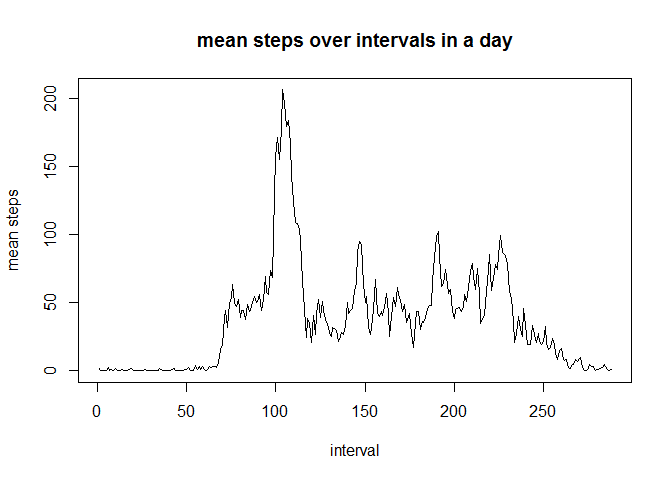
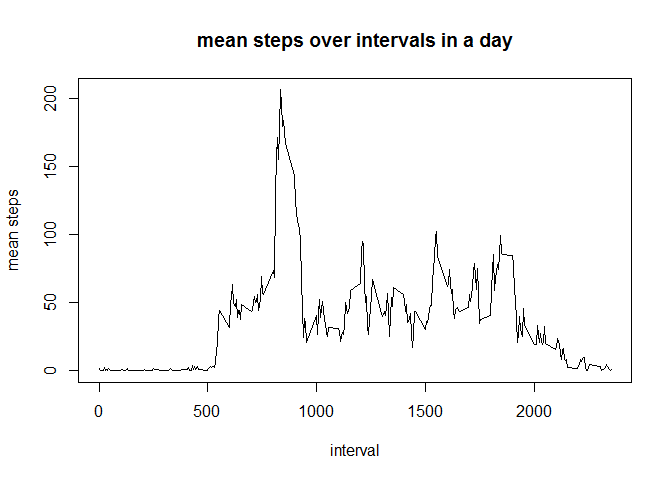
correction made, final

diff --git a/PA1_template.html b/PA1_template.html
@@ -85,13 +85,14 @@ hist(steps.day$steps, breaks = 10, main = &quot;Histogram of steps per day&quot;
 <li>Make a time series plot (i.e. <code>type = &quot;l&quot;</code>) of the 5-minute interval (x-axis) and the average number of steps taken, averaged across all days (y-axis)</li>
 </ol>
 <pre class="r"><code>steps.interval&lt;-aggregate(steps~interval,df,mean,na.rm=TRUE)
-plot(steps.interval$steps,type = &quot;l&quot;,main = &quot;mean steps over intervals in a day&quot;, xlab = &quot;interval&quot;, ylab = &quot;mean steps&quot;)</code></pre>
[1 lines of base64/hex data omitted]
+plot(steps~interval,steps.interval,type = &quot;l&quot;,main = &quot;mean steps over intervals in a day&quot;, xlab = &quot;interval&quot;, ylab = &quot;mean steps&quot;)</code></pre>
[1 lines of base64/hex data omitted]
 <ol start="2" style="list-style-type: decimal">
 <li>Which 5-minute interval, on average across all the days in the dataset, contains the maximum number of steps?</li>
 </ol>
-<pre class="r"><code>which.max(steps.interval$steps)</code></pre>
-<pre><code>## [1] 104</code></pre>
+<p>The interval containing max steps</p>
+<pre class="r"><code>steps.interval$interval[which.max(steps.interval$steps)]</code></pre>
+<pre><code>## [1] 835</code></pre>
 </div>
 <div id="imputing-missing-values" class="section level2">
 <h2>Imputing missing values</h2>

diff --git a/PA1_template.md b/PA1_template.md
@@ -45,19 +45,21 @@ median(steps.day$steps)
 
 ```r
 steps.interval<-aggregate(steps~interval,df,mean,na.rm=TRUE)
-plot(steps.interval$steps,type = "l",main = "mean steps over intervals in a day", xlab = "interval", ylab = "mean steps")
+plot(steps~interval,steps.interval,type = "l",main = "mean steps over intervals in a day", xlab = "interval", ylab = "mean steps")
 ```
 
 ![](PA1_template_files/figure-html/unnamed-chunk-4-1.png) 
 
-2. Which 5-minute interval, on average across all the days in the dataset, contains the maximum number of steps?  
+2. Which 5-minute interval, on average across all the days in the dataset, contains the maximum number of steps?
+
+The interval containing max steps
 
 ```r
-which.max(steps.interval$steps)
+steps.interval$interval[which.max(steps.interval$steps)]
 ```
 
 ```
-## [1] 104
+## [1] 835
 ```
 
 ## Imputing missing values
